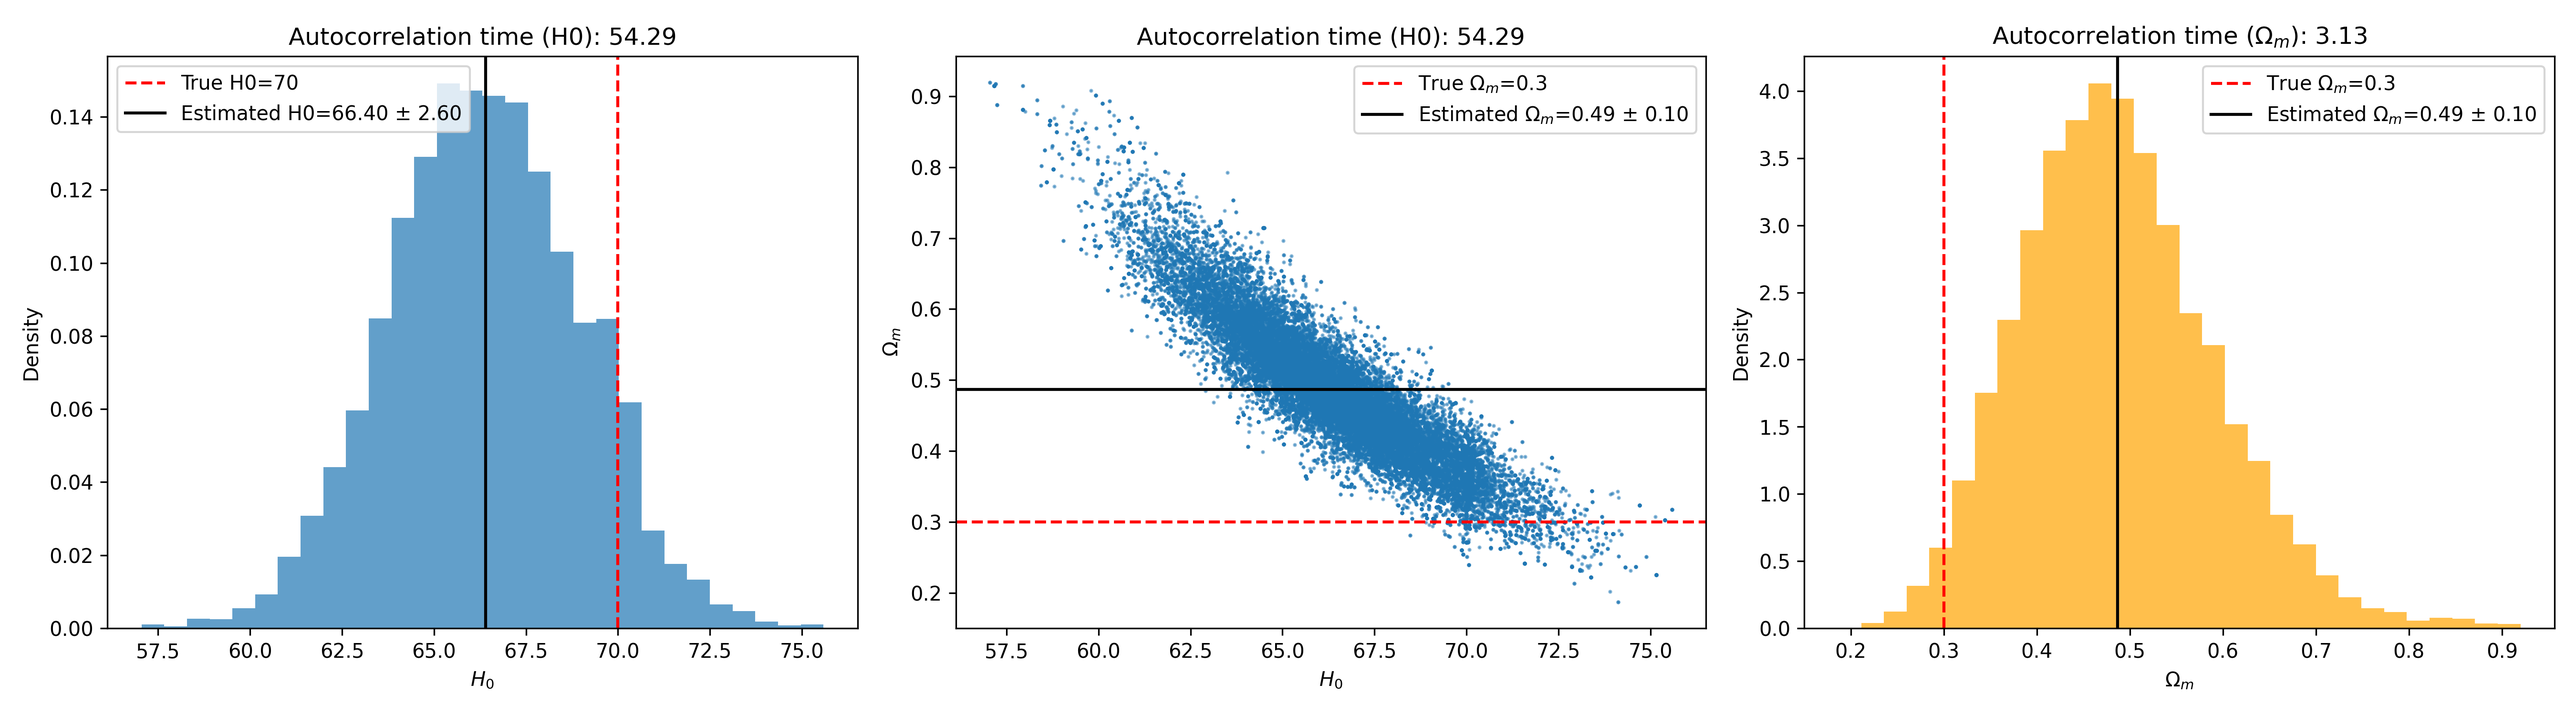
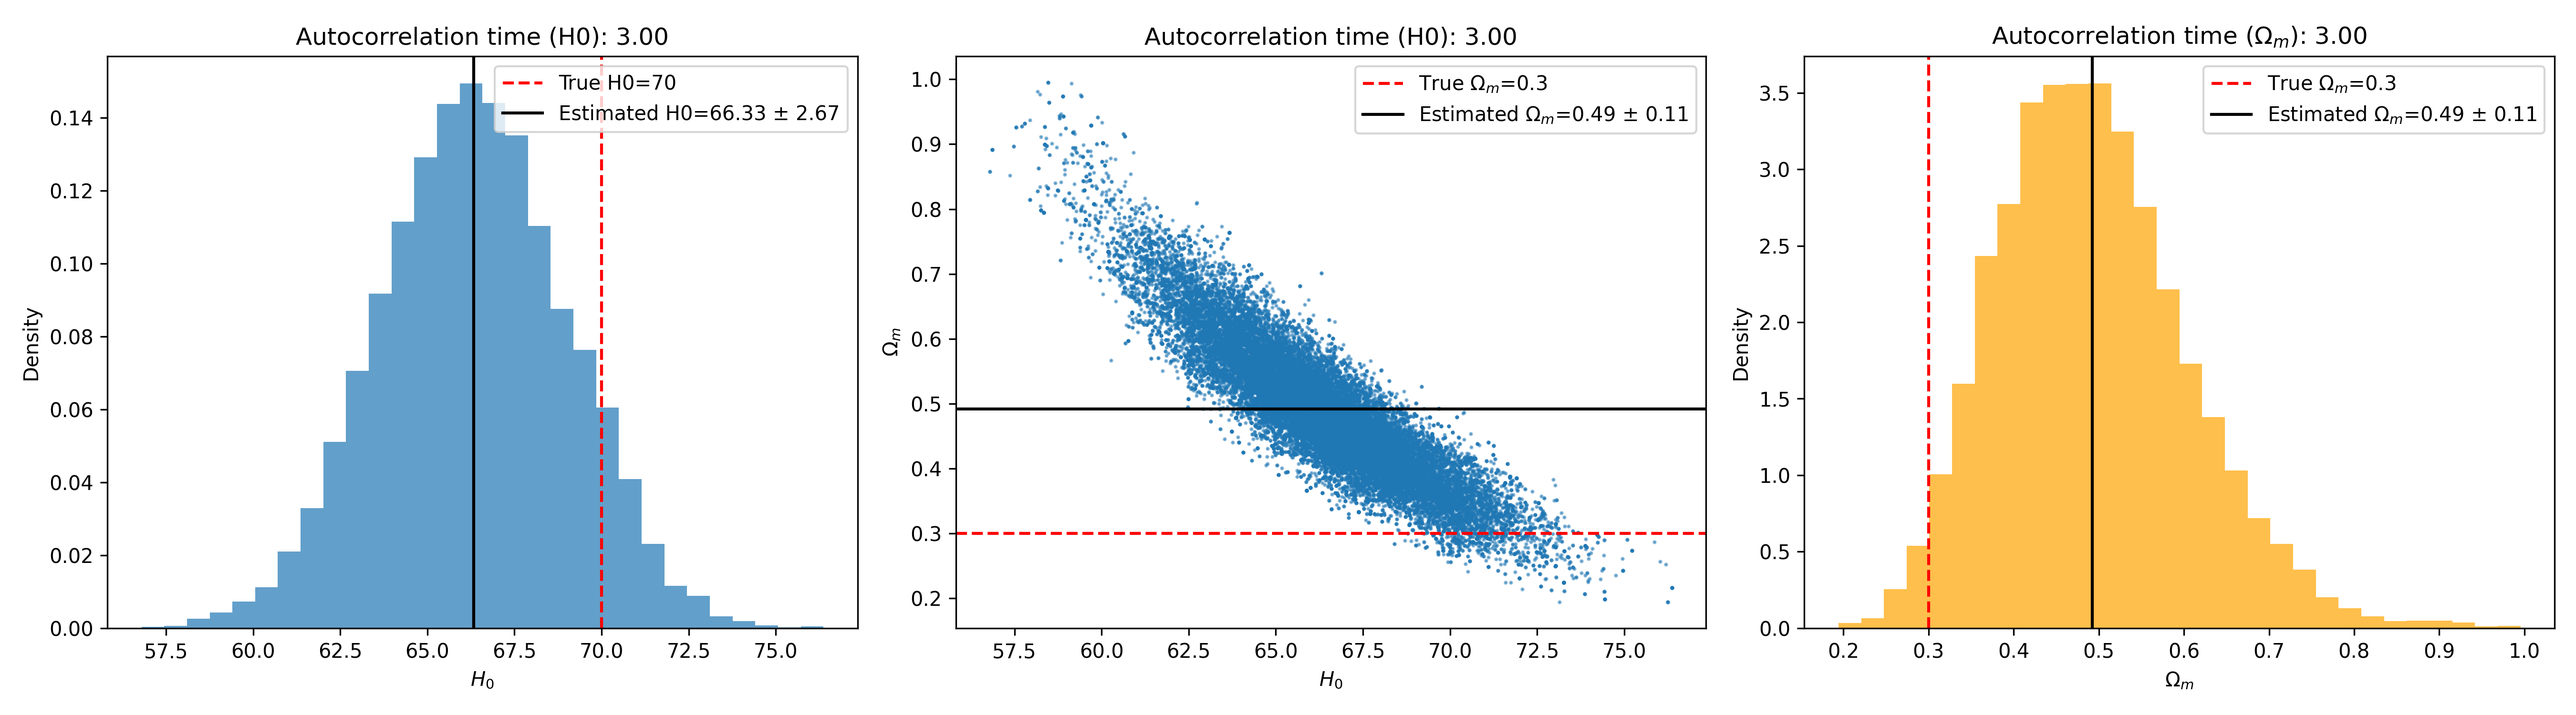
correções no emcee

diff --git a/FinalProject/FinalProject_using_emcee.py b/FinalProject/FinalProject_using_emcee.py
@@ -105,59 +105,6 @@ plt.legend()
 plt.title(f"Autocorrelation time ($\\Omega_m$): {tau_Omega_m:.2f}")
 
 plt.tight_layout()
-plt.show()
-
-# Corner plot (for completeness)
-fig = corner.corner(samples, labels=["H0", "Omega_m"], truths=[true_H0, true_Omega_m])
-plt.show()
-
-# Extract the samples and calculate statistics
-H0_samples = samples[:, 0]
-Omega_m_samples = samples[:, 1]
-
-H0_mean = np.mean(H0_samples)
-H0_std = np.std(H0_samples)
-Omega_m_mean = np.mean(Omega_m_samples)
-Omega_m_std = np.std(Omega_m_samples)
-
-# Calculate the autocorrelation time
-tau_H0 = sampler.get_autocorr_time(tol=0)[0]
-tau_Omega_m = sampler.get_autocorr_time(tol=0)[1]
-
-# Plot results
-plt.figure(figsize=(18, 5))
-
-# Histogram of H0
-plt.subplot(1, 3, 1)
-plt.hist(H0_samples, bins=30, density=True, alpha=0.7)
-plt.axvline(true_H0, color='r', linestyle='--', label=f"True H0={true_H0}")
-plt.axvline(H0_mean, color='k', linestyle='-', label=f"Estimated H0={H0_mean:.2f} ± {H0_std:.2f}")
-plt.xlabel("$H_0$")
-plt.ylabel("Density")
-plt.legend()
-plt.title(f"Autocorrelation time (H0): {tau_H0:.2f}")
-
-# Scatter plot of Omega_m vs H0
-plt.subplot(1, 3, 2)
-plt.scatter(H0_samples, Omega_m_samples, s=1, alpha=0.5)
-plt.axhline(true_Omega_m, color='r', linestyle='--', label=f"True $\\Omega_m$={true_Omega_m}")
-plt.axhline(Omega_m_mean, color='k', linestyle='-', label=f"Estimated $\\Omega_m$={Omega_m_mean:.2f} ± {Omega_m_std:.2f}")
-plt.xlabel("$H_0$")
-plt.ylabel("$\\Omega_m$")
-plt.legend()
-plt.title(f"Autocorrelation time (H0): {tau_H0:.2f}")
-
-# Histogram of Omega_m
-plt.subplot(1, 3, 3)
-plt.hist(Omega_m_samples, bins=30, density=True, alpha=0.7, color='orange')
-plt.axvline(true_Omega_m, color='r', linestyle='--', label=f"True $\\Omega_m$={true_Omega_m}")
-plt.axvline(Omega_m_mean, color='k', linestyle='-', label=f"Estimated $\\Omega_m$={Omega_m_mean:.2f} ± {Omega_m_std:.2f}")
-plt.xlabel("$\\Omega_m$")
-plt.ylabel("Density")
-plt.legend()
-plt.title(f"Autocorrelation time ($\\Omega_m$): {tau_Omega_m:.2f}")
-
-plt.tight_layout()
 plt.savefig("FinalProject/figs/parameter_distribution_emcee.png", dpi=300)
 #plt.show()
 

diff --git a/FinalProject/FinalProject_StretchMove.py b/FinalProject/FinalProject_StretchMove.py
@@ -59,8 +59,8 @@ def stretch_move_sampling(iterations, n_walkers, init_H0=70, init_Omega_m=0.3):
                 j = np.random.randint(n_walkers)
 
             # Generate a random stretch factor
-            z = np.random.uniform(1/a, a)
-            g = 1/np.sqrt(z)
+            z = (a - 1) * np.random.rand() + 1
+            z = z**2 / a  # Scale the stretch factor
 
             # Propose a new position
             new_theta = walkers[j] + z * (walkers[k] - walkers[j])
@@ -68,7 +68,7 @@ def stretch_move_sampling(iterations, n_walkers, init_H0=70, init_Omega_m=0.3):
             # Compute the log-likelihood ratio
             logL_new = log_likelihood(new_theta)
             logL_old = log_likelihood(walkers[k])
-            accept_ratio = g**(ndim - 1) * np.exp(logL_new - logL_old)
+            accept_ratio = z**(ndim - 1) * np.exp(logL_new - logL_old)
 
             # Accept or reject the proposal
             if np.random.rand() < accept_ratio:
